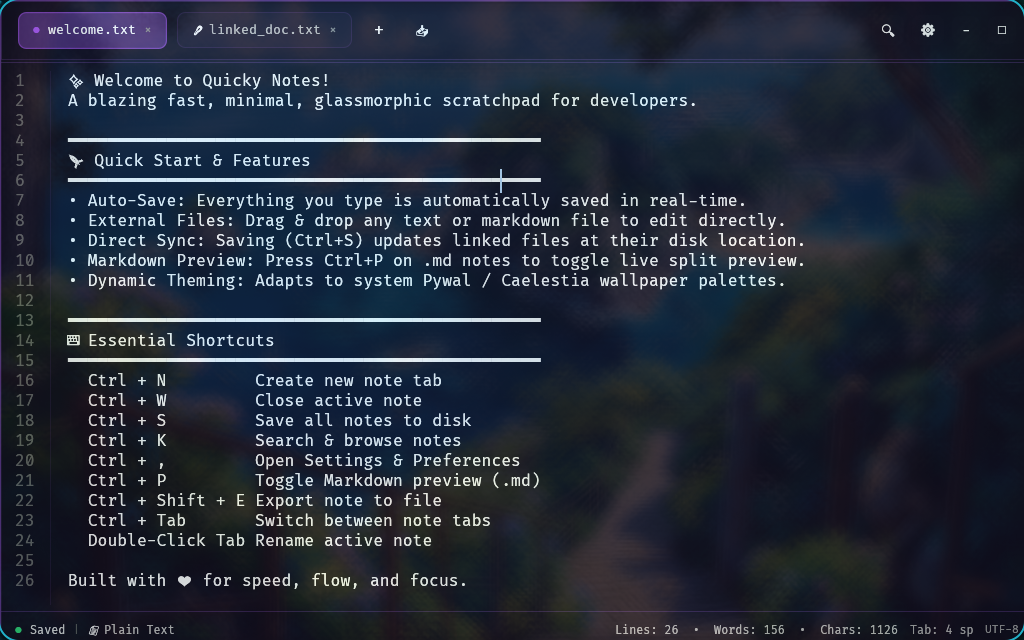
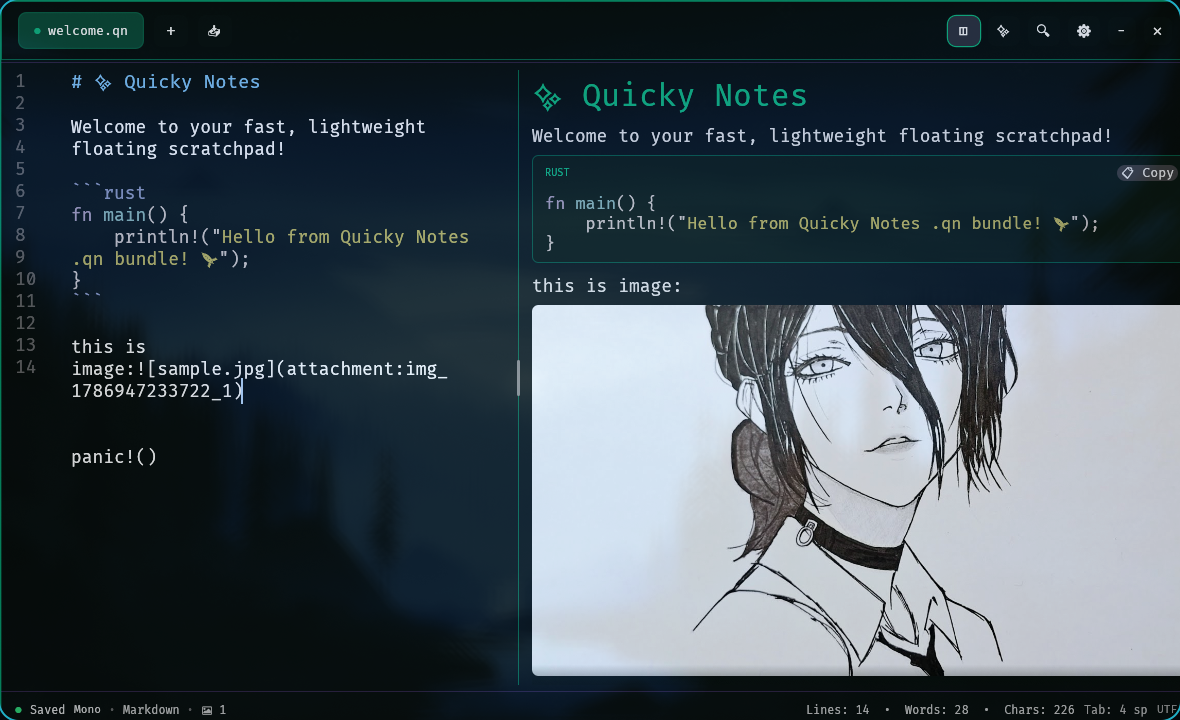
feat: add draggable split view separator and fix AI context menu selection

diff --git a/src/ui/editor.rs b/src/ui/editor.rs
@@ -243,12 +243,18 @@ fn render_editor_workspace(app: &mut QuickyNotesApp, _ctx: &egui::Context, ui: &
             }
 
             crate::app::MarkdownViewMode::Split => {
-                let half_width = (ui.available_width() - 16.0) / 2.0;
+                let total_width = ui.available_width();
+                let sep_width = 12.0;
+                let usable_width = (total_width - sep_width).max(100.0);
+                app.split_ratio = app.split_ratio.clamp(0.15, 0.85);
+
+                let left_width = usable_width * app.split_ratio;
+                let right_width = (usable_width - left_width).max(50.0);
 
                 ui.horizontal(|ui| {
                     // Left column: Editor
                     ui.vertical(|ui| {
-                        ui.set_width(half_width);
+                        ui.set_width(left_width);
                         ui.set_height(editor_height);
                         egui::ScrollArea::vertical()
                             .id_salt("split_editor_scroll_area")
@@ -288,15 +294,65 @@ fn render_editor_workspace(app: &mut QuickyNotesApp, _ctx: &egui::Context, ui: &
                             });
                     });
 
-                    // Middle vertical divider
-                    ui.separator();
-                    ui.add_space(8.0);
+                    // Middle draggable vertical divider & grip handle
+                    let (sep_rect, sep_resp) = ui.allocate_exact_size(
+                        egui::vec2(sep_width, editor_height),
+                        egui::Sense::click_and_drag(),
+                    );
+
+                    let is_active = sep_resp.hovered() || sep_resp.dragged();
+
+                    if sep_resp.dragged() {
+                        let delta_x = sep_resp.drag_delta().x;
+                        let ratio_delta = delta_x / usable_width;
+                        app.split_ratio = (app.split_ratio + ratio_delta).clamp(0.15, 0.85);
+                        ui.ctx().set_cursor_icon(egui::CursorIcon::ResizeHorizontal);
+                    } else if sep_resp.hovered() {
+                        ui.ctx().set_cursor_icon(egui::CursorIcon::ResizeHorizontal);
+                    }
+
+                    if sep_resp.double_clicked() {
+                        app.split_ratio = 0.5;
+                    }
+
+                    // 1. Divider line from top to bottom
+                    let center_x = sep_rect.center().x;
+                    let line_color = if is_active {
+                        palette.accent
+                    } else {
+                        crate::theme::Palette::with_alpha(palette.border, 180)
+                    };
+                    let line_stroke =
+                        egui::Stroke::new(if is_active { 1.5 } else { 1.0 }, line_color);
+                    ui.painter().line_segment(
+                        [
+                            egui::pos2(center_x, sep_rect.min.y),
+                            egui::pos2(center_x, sep_rect.max.y),
+                        ],
+                        line_stroke,
+                    );
+
+                    // 2. Centered draggable grip pill handle
+                    let pill_h = 36.0;
+                    let pill_w = if is_active { 5.0 } else { 3.5 };
+                    let pill_rect = egui::Rect::from_center_size(
+                        egui::pos2(center_x, sep_rect.center().y),
+                        egui::vec2(pill_w, pill_h),
+                    );
+                    let pill_bg = if is_active {
+                        palette.accent
+                    } else {
+                        Color32::from_gray(140)
+                    };
+
+                    ui.painter()
+                        .rect_filled(pill_rect, egui::CornerRadius::same(2), pill_bg);
 
                     // Right column: Live Markdown Preview
                     ui.vertical(|ui| {
-                        ui.set_width(half_width - 8.0);
+                        ui.set_width(right_width);
                         ui.set_height(editor_height);
-                        egui::ScrollArea::vertical()
+                        let split_prev_resp = egui::ScrollArea::vertical()
                             .id_salt("split_preview_scroll_area")
                             .auto_shrink([false, false])
                             .max_height(editor_height)
@@ -313,6 +369,21 @@ fn render_editor_workspace(app: &mut QuickyNotesApp, _ctx: &egui::Context, ui: &
                                     );
                                 });
                             });
+
+                        let r = ui.interact(
+                            split_prev_resp.inner_rect,
+                            egui::Id::new("split_preview_ctx_menu"),
+                            egui::Sense::click(),
+                        );
+                        r.context_menu(|ui| {
+                            crate::ui::context_menu::render_editor_context_menu(
+                                ui,
+                                note,
+                                *last_cursor_range,
+                                &palette,
+                                &mut context_menu_action,
+                            );
+                        });
                     });
                 });
             }
@@ -329,8 +400,14 @@ fn render_editor_workspace(app: &mut QuickyNotesApp, _ctx: &egui::Context, ui: &
         let cursor_range = app.last_cursor_range;
         match action {
             crate::ui::context_menu::ContextMenuAction::LaunchAi => {
+                if let Some((start, end)) = cursor_range
+                    && start < end
+                {
+                    app.last_cursor_range = Some((start, end));
+                }
                 app.trigger_ai_assist();
             }
+
             crate::ui::context_menu::ContextMenuAction::Cut => {
                 if let Some((start, end)) = cursor_range
                     && start < end
@@ -858,16 +935,21 @@ fn render_multiline_editor_pane(
         content_changed,
     );
 
-    let is_rmb = ui.input(|i| {
-        i.pointer.button_down(egui::PointerButton::Secondary)
-            || i.pointer.button_clicked(egui::PointerButton::Secondary)
-    });
+    let is_lmb_clicked = resp.clicked();
 
-    if !accepted {
-        if is_rmb
-            && let Some((start, end)) = current_cursor_range
+    if !accepted && let Some(range) = output.state.cursor.char_range() {
+        let p: usize = range.primary.index.into();
+        let s: usize = range.secondary.index.into();
+        if p != s {
+            // Active non-empty text selection: always record it
+            *last_cursor_range = Some((p.min(s), p.max(s)));
+        } else if is_lmb_clicked || last_cursor_range.is_none() {
+            // User explicitly left-clicked at a point, clearing the selection
+            *last_cursor_range = Some((p, p));
+        } else if let Some((start, end)) = current_cursor_range
             && start < end
         {
+            // Preserve existing selection when right-clicking or opening context menu
             *last_cursor_range = Some((start, end));
             let mut state = egui::text_edit::TextEditState::load(ui.ctx(), resp.id)
                 .unwrap_or_else(|| output.state.clone());
@@ -878,10 +960,6 @@ fn render_multiline_editor_pane(
                     egui::text::CCursor::new(end),
                 )));
             state.store(ui.ctx(), resp.id);
-        } else if let Some(range) = output.state.cursor.char_range() {
-            let p: usize = range.primary.index.into();
-            let s: usize = range.secondary.index.into();
-            *last_cursor_range = Some((p.min(s), p.max(s)));
         }
     }
 

diff --git a/src/ui/ai_modal.rs b/src/ui/ai_modal.rs
@@ -312,27 +312,52 @@ pub fn render_ai_copilot_modal(app: &mut QuickyNotesApp, ctx: &egui::Context) {
 
                         ui.add_space(6.0);
 
-                        // 2. Selection Context Indicator
-                        let context_info = if !app.ai_modal.target_text.is_empty() {
-                            let preview_snippet = if app.ai_modal.target_text.len() > 30 {
-                                format!("{}...", &app.ai_modal.target_text[..30])
+                        // 2. Selection Context Indicator Card
+                        if !app.ai_modal.target_text.is_empty() {
+                            let char_count = app.ai_modal.target_text.chars().count();
+                            let preview_snippet: String = app
+                                .ai_modal
+                                .target_text
+                                .chars()
+                                .take(60)
+                                .collect::<String>()
+                                .replace('\n', " ");
+                            let preview_display = if char_count > 60 {
+                                format!("{}...", preview_snippet)
                             } else {
-                                app.ai_modal.target_text.clone()
+                                preview_snippet
                             };
-                            format!(
-                                "Target Selection ({} chars): \"{}\"",
-                                app.ai_modal.target_text.len(),
-                                preview_snippet.replace('\n', " ")
-                            )
-                        } else {
-                            "Cursor Mode: Continue from active cursor position".to_string()
-                        };
 
-                        ui.label(
-                            RichText::new(context_info)
+                            card::settings_card(ui, "TARGET SELECTION", &palette, |ui| {
+                                ui.horizontal(|ui| {
+                                    ui.label(
+                                        RichText::new(format!("📝 \"{}\"", preview_display))
+                                            .font(FontId::monospace(11.5))
+                                            .color(Color32::from_gray(230)),
+                                    );
+
+                                    ui.with_layout(
+                                        egui::Layout::right_to_left(egui::Align::Center),
+                                        |ui| {
+                                            ui.label(
+                                                RichText::new(format!("({} chars)", char_count))
+                                                    .font(FontId::proportional(10.5))
+                                                    .color(Color32::from_gray(140)),
+                                            );
+                                        },
+                                    );
+                                });
+                            });
+                        } else {
+                            ui.label(
+                                RichText::new(
+                                    "📍 Note / Cursor Mode: AI will generate content from cursor context",
+                                )
                                 .font(FontId::proportional(11.0))
                                 .color(Color32::from_gray(175)),
-                        );
+                            );
+                        }
+
 
                         ui.add_space(8.0);
 

diff --git a/src/ui/header.rs b/src/ui/header.rs
@@ -352,6 +352,28 @@ pub fn render_header(app: &mut QuickyNotesApp, ctx: &egui::Context, ui: &mut Ui)
                     ctx.request_repaint();
                 }
 
+                // AI Copilot ✨ Button
+                if app.data.settings.ai.enabled {
+                    let ai_btn = button::icon_button(
+                        ui,
+                        "✨",
+                        app.ai_modal.is_open,
+                        &palette,
+                        14.0,
+                        OPTIONS_BTN_SIZE,
+                    );
+
+                    let ai_tooltip = format!(
+                        "AI Copilot & Fixer ({})",
+                        app.shortcut_label(crate::ui::shortcuts::ShortcutAction::AiAssist)
+                    );
+                    if ai_btn.on_hover_text(ai_tooltip).clicked() {
+                        app.trigger_ai_assist();
+                        ctx.request_repaint();
+                    }
+                }
+
+
                 // Markdown Preview Mode Button (📝 / ◫ / 👁) - visible for markdown & .qn files
                 if app.active_note().is_some_and(|n| n.is_markdown()) {
                     let md_active = app.preview_mode != crate::app::MarkdownViewMode::Edit;

diff --git a/src/app.rs b/src/app.rs
@@ -107,6 +107,9 @@ pub struct QuickyNotesApp {
     /// Last recorded cursor selection character range `(start_idx, end_idx)`.
     pub last_cursor_range: Option<(usize, usize)>,
 
+    /// Split preview ratio (0.15 to 0.85) defining the width of the editor vs preview pane.
+    pub split_ratio: f32,
+
     /// Last timestamp for window size persistence check.
     pub last_window_size_check: Instant,
 }
@@ -164,6 +167,7 @@ impl QuickyNotesApp {
             suggestion_rx: Some(suggest_rx),
             active_ghost_suffix: None,
             last_cursor_range: None,
+            split_ratio: 0.5,
             last_window_size_check: Instant::now(),
         }
     }
@@ -545,6 +549,7 @@ mod tests {
             suggestion_rx: None,
             active_ghost_suffix: None,
             last_cursor_range: None,
+            split_ratio: 0.5,
             last_window_size_check: Instant::now(),
         }
     }
